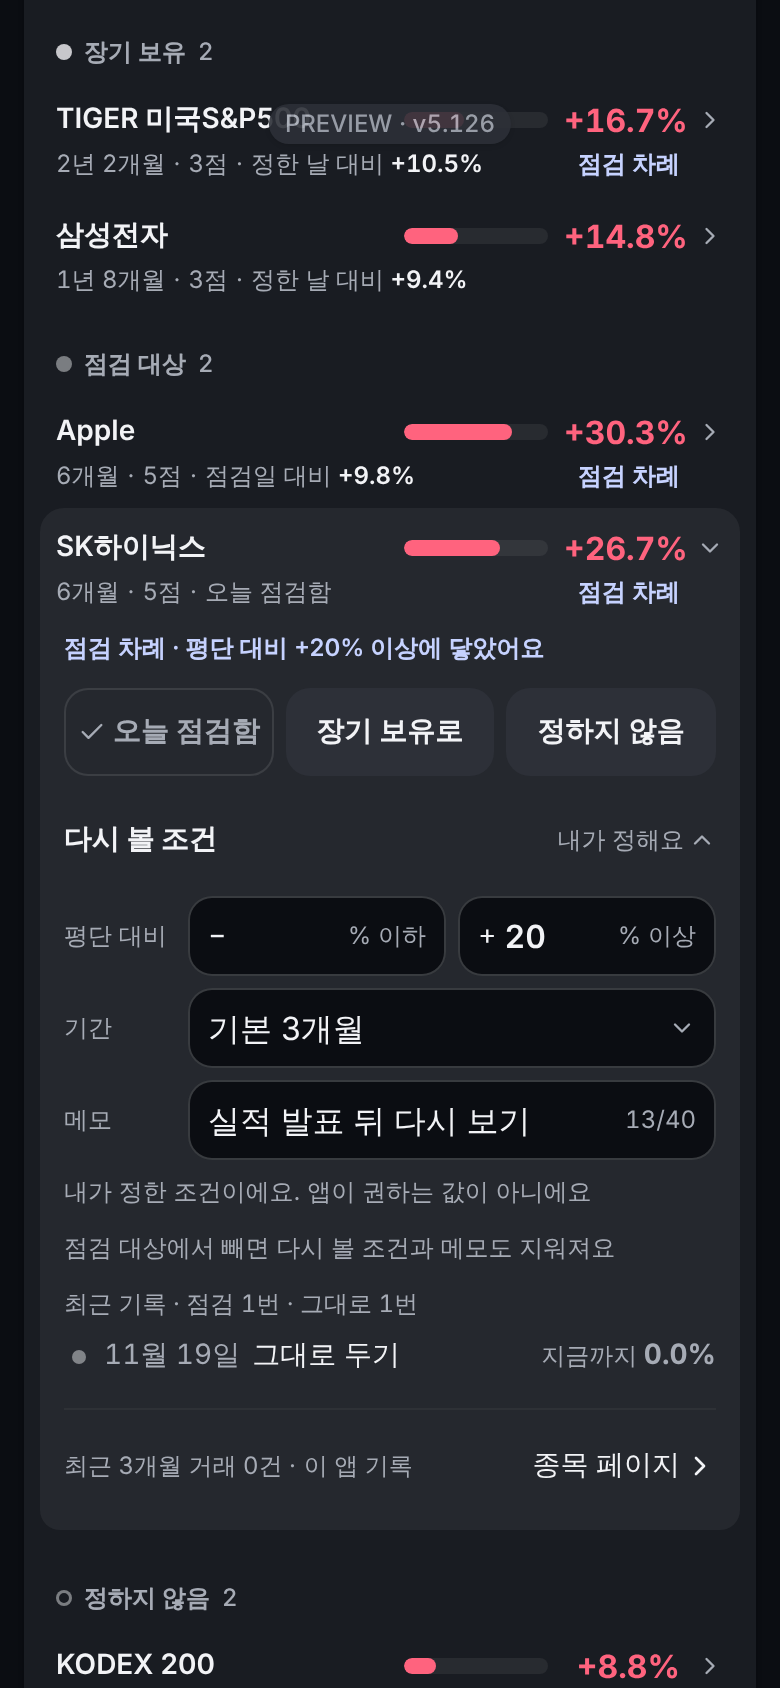
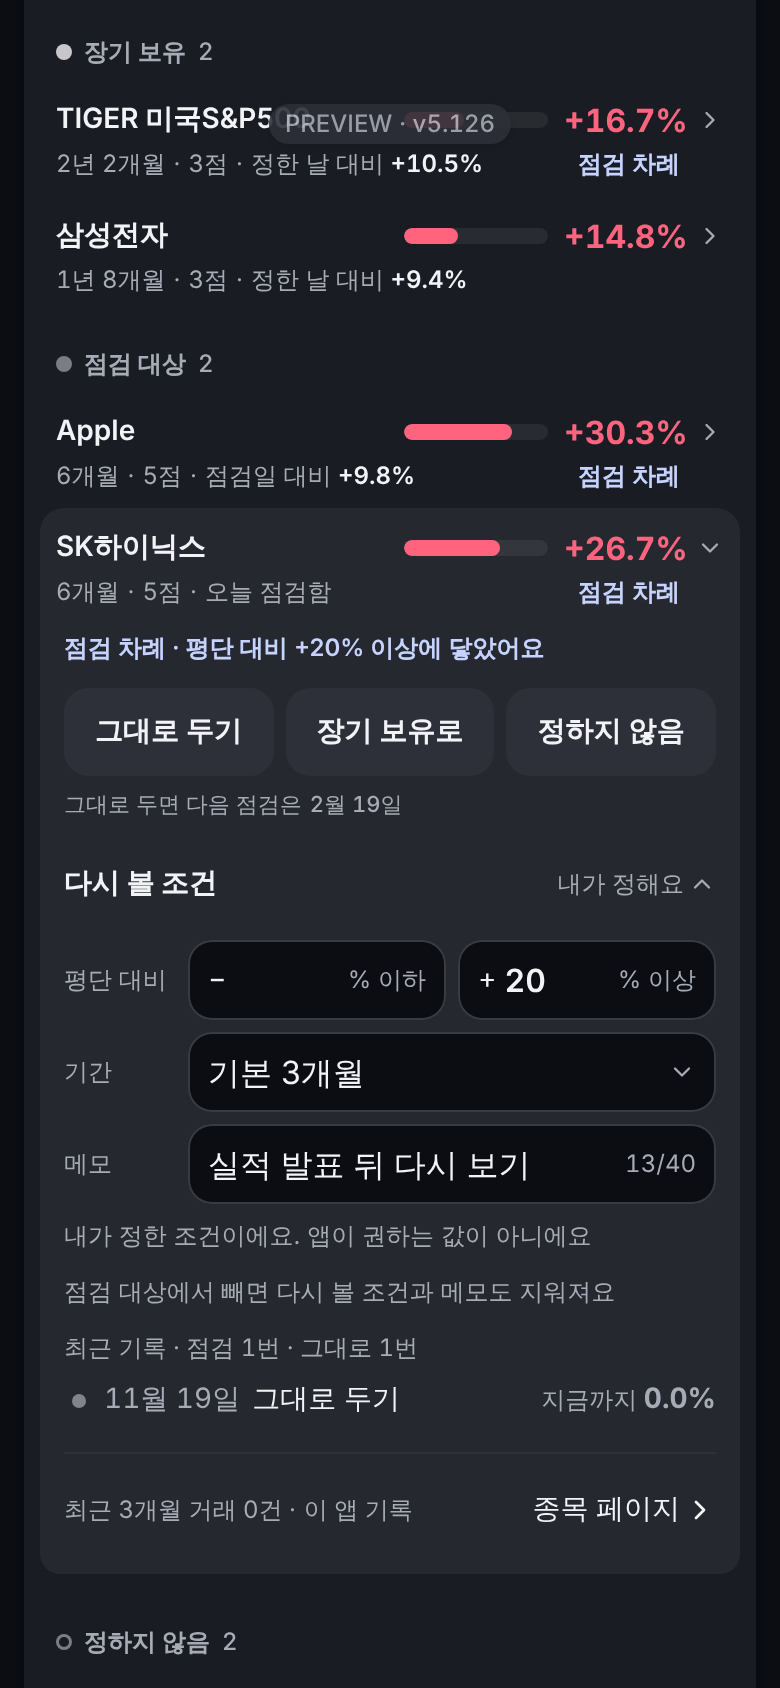
memory: 5.126 #247 조건 수정 뒤 같은 날 재누름 dev-notes, preview 실측

diff --git a/issues/5.126-241-morning-push/5.126-dev-notes.md b/issues/5.126-241-morning-push/5.126-dev-notes.md
@@ -171,3 +171,18 @@ pageerror 0, 비GET 요청 0.
 - 무주기 종목의 3개월 재차례는 화면에 날짜로 보이지 않는다(`nextCheckMs` null 그대로 — 이유 줄·약속 줄 없음). 문구는 #245 spec 몫으로 남겼다.
 - 무주기 3개월 경계는 단위 테스트로만 확인했다(체험 기본 주기가 3개월이라 화면 재현에는 주기 해제 수단이 없다).
 - 구버전 기기 혼재: 5.127 이하 기기에서 메모를 고치면 그 기기 코드는 `plan.at`을 갱신한다 → 병합 뒤 새 버전에서 다시 차례가 될 수 있다(한 번 누르면 풀림, 값 손실 없음).
+
+## 조건 수정 뒤 같은 날 재누름 (11/19, head `44f3017`)
+
+오케스트레이터 판정: 같은 날 ±% 값·기간을 고쳐 다시 차례가 되면, 오늘 점검이 `plan.at`보다 앞선 경우에 한해 `그대로 두기`를 다시 누를 수 있게 한다.
+
+- `grow-board.ts` `labelFactsOf`: 차례이고 `plan.at`이 마지막 점검(checkedAt·같은 티커 마지막 same 기록 중 늦은 쪽)보다 뒤면 `checkedToday=false`. 다시 누르면 그 기록이 `plan.at`보다 뒤라 다시 막힌다(조건 수정 1번에 1번). 화면 코드·저장 diff 0 — 버튼·약속 줄·이유 줄은 기존대로 `checkedToday`·`due`를 읽는다.
+- 테스트 `grow-board.test.ts` 1건 추가(`#247` 묶음 13건): 같은 날 25 → 20 수정 → `due`·`checkedToday=false` → 누르면 풀림·다시 막힘·기록 hit 2건, 메모만 수정·닿지 않는 값으로 수정은 막힌 채, 기록 없이 checkedAt만 있는 경우.
+- 검증: tsc 0 · lint 0 errors(129 warnings) · vitest 221파일 3410건 · build 1회차 보안 권고 exit 1, 재실행 0. Vercel success @44f3017.
+- preview 실측(체험 390 다크, SK하이닉스, `tools/dev-5126-247-d5.mjs`, 캡처 `screenshots/247/32-`·`33-d5-after-repress-390.png`): 확인 뒤 메모 입력 = 그대로(`오늘 점검함`, 허브 3개) → 상한 25 → 20 = `점검 차례 · 평단 대비 +20% 이상에 닿았어요` + 버튼 **`그대로 두기`**(눌림) + `그대로 두면 다음 점검은 2월 19일` → 누름 = `오늘 점검함 · 다음 점검 2월 19일`, 행 꼬리 없음, 카드 `2종목 중 1종목`, 허브 `3개`, 기록 hit up 2건 → 한 번 더 눌러도 2건 그대로. pageerror 0, 비GET 요청 0.
+
+**`점검 차례` + `오늘 점검함`이 아직 함께 보일 수 있는 경우(이번 예외 범위 밖, 화면 재현 안 함 — 코드로 판단)**
+- 차례가 아닐 때 `그대로 두기`를 누른 같은 날, 그 뒤 시세가 움직여 ±% 조건에 닿은 경우(오늘 기록에 hit 없음 → 확인 아님 → 차례, 버튼은 막힘). 다음 날 풀 수 있다.
+- 한 방향을 확인한 같은 날 반대 방향 조건에 닿은 경우.
+- 5.125 기기에서 오늘 누른 기록(hit 없음)이 동기화로 들어온 경우(테스트 `noRec` 줄과 같은 판정).
+세 경우 모두 조건 수정이 없어 '조건 변경 뒤에만 예외'라는 지시에 따라 그대로 뒀다. 동시 표시 0이 목표라면 '차례인 행은 같은 날도 누를 수 있다'로 규칙을 넓혀야 하고, 그 경우 같은 날 기록이 여러 건 생길 수 있어 판정이 필요하다.
